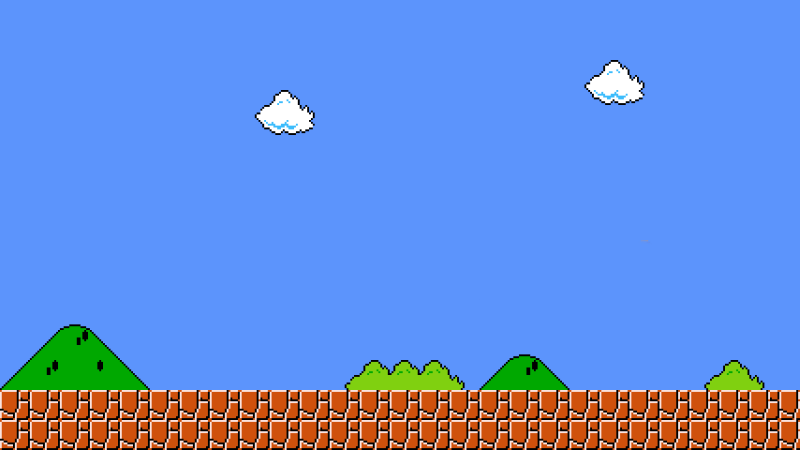
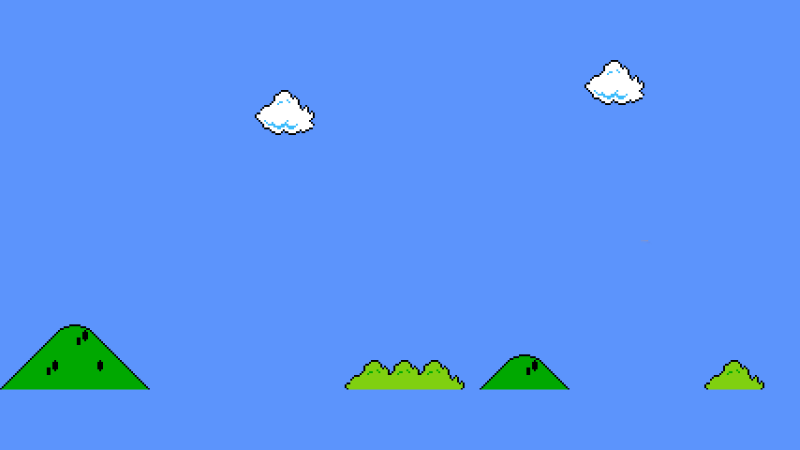
collisions fixed and new tilemap

Changed region(s): [[0.0, 0.84, 1.0, 1.0]]

diff --git a/public/Player.js b/public/Player.js
@@ -30,44 +30,48 @@ export default class Player {
     this.prev = new Vector(this.pos.x, this.pos.y);
     this.pos.add(this.vel);
     this.pos.x = constrain(this.pos.x, 0, canvas.width - this.w);
-    this.pos.y = constrain(this.pos.y, 0, canvas.height - this.h);
+    this.pos.y = constrain(this.pos.y, 0, canvas.height * 2);
     this.vel.x = constrain(this.vel.x, -MOVE_SPEED, MOVE_SPEED);
+
+    if (this.pos.y > canvas.height + 100) {
+      this.vel = new Vector(0, 0);
+      this.pos = new Vector(10, 10);
+    }
   }
 
   collisions(platforms, viewport) {
     platforms.forEach((platform) => {
       if (doBoxesIntersect(this, platform, viewport)) {
         platform.colliding = true;
-        const platXPlusViewport = platform.pos.x - viewport.x
-        const distX = (this.pos.x + this.w) < platXPlusViewport + (platform.w / 2) ? (this.pos.x + this.w) - platform.pos.x
-          : this.pos.x > platXPlusViewport + (platform.w / 2) ? this.pos.x - (platform.pos.x + platform.w)
+        const platXPlusViewport = platform.pos.x + viewport.x;
+        const xTest = (this.pos.x + (this.w / 2)) - (platXPlusViewport + (platform.w / 2));
+
+        const distX = xTest < 0 ? (this.pos.x + this.w) - platform.pos.x
+          : xTest > 0 ? this.pos.x - (platform.pos.x + platform.w)
             : undefined;
+
         const distY = (this.pos.y + this.h) < platform.pos.y + (platform.h / 2) ? (this.pos.y + this.h) - platform.pos.y
           : this.pos.y > platform.pos.y + (platform.h / 2) ? this.pos.y - (platform.pos.y + platform.h)
             : undefined;
+
         const overlap = {
           x: distX - viewport.x,
           y: distY,
         }
-        window.overlap = overlap;
+
         if (Math.abs(overlap.y) < Math.abs(overlap.x)) {
           if (overlap.y < 0) {
-            console.log("top", overlap.y)
-
             this.pos.y += Math.abs(overlap.y);
             this.vel.y = constrain(this.vel.y, 0, 9999);
           }
           else {
-
             this.pos.y -= Math.abs(overlap.y);
             this.vel.y = constrain(this.vel.y, -9999, 0);
           }
         }
         else {
           if (overlap.x < 0) {
-            console.log("right", overlap.x)
-
-            //this.pos.x += Math.abs(overlap.x);
+            this.pos.x += Math.abs(overlap.x);
           }
           else {
             this.pos.x -= Math.abs(overlap.x);

diff --git a/public/main.js b/public/main.js
@@ -10,13 +10,13 @@ let bgImg;
 let debug = false;
 
 window.GRAVITY = 20;
-window.MOVE_SPEED = 250;
+window.MOVE_SPEED = 220;
 window.JUMP_HEIGHT = 450;
 
 function preload(callback) {
   Promise.all([fetch('mario_sprite.png'), fetch('bg.png'), fetch('bg-plain.png'), fetch('levels/1.json')])
     .then(([marioSprite, bgSprite, bg, level1]) => {
-      Promise.all([processSpriteBoard(marioSprite, 40, 40, 11, 9), processSpriteBoard(bgSprite, 30, 30, 15, 27), processImage(bg), processLevel(level1)])
+      Promise.all([processSpriteBoard(marioSprite, 40, 40, 11, 9), processSpriteBoard(bgSprite, 32, 32, 17, 16), processImage(bg), processLevel(level1)])
         .then(([mImgs, bgImgs, bg, level1]) => callback(mImgs, bgImgs, bg, level1));
     })
 }
@@ -25,7 +25,7 @@ function setup([mImgs, bgImgs, bg, level1], callback) {
   canvas = document.getElementById("canvas");
   canvas.addEventListener('click', mouseClick);
   canvas.width = 800;
-  canvas.height = 450;
+  canvas.height = 447;
   window.WIDTH = canvas.width;
   window.HEIGHT = canvas.height;
   window.ctx = canvas.getContext("2d");
@@ -38,7 +38,7 @@ function setup([mImgs, bgImgs, bg, level1], callback) {
   for (let i = 0; i < level1.length; i++) {
     for (let j = 0; j < level1[i].length; j++) {
       if (level1[i][j]) {
-        platforms.push(new Platform(j * 30, i * 30, 30, 30, bgImgs[390]));
+        platforms.push(new Platform(j * 32, i * 32, 33, 33, bgImgs[level1[i][j]]));
       }
     }
   }
@@ -49,21 +49,21 @@ function update(deltaTime) {
   player.update(platforms, viewport);
   player.collisions(platforms, viewport);
   if (player.pos.x > 100) {
-    viewport.x = -player.pos.x / 2;
+    viewport.x = -player.pos.x * 0.7;
   }
-  else viewport.x = -50;
+  else viewport.x = -70;
 }
 
 function draw() {
   ctx.clearRect(0, 0, canvas.width, canvas.height);
-  ctx.drawImage(bgImg, 0, 0);
+  for (let i = 0; i < 5; i++) {
+    ctx.drawImage(bgImg, (i * bgImg.width) + (viewport.x * 0.8), 0);
+  }
   for (let platform of platforms) {
     platform.show(viewport, debug);
   }
   player.show(Math.floor((Math.floor(TIME.previous) % 300) / 100));
   text(viewport, 10, 20);
-  if (window.overlap)
-    text(window.overlap, 10, 40);
 }
 
 preload((...assets) => {

diff --git a/index.html b/index.html
@@ -13,7 +13,7 @@
     }
 
     canvas {
-      border: 1px solid green;
+      border: 1px solid #ccc;
       display: inline-block;
       background-color: #eaeaea;
     }
